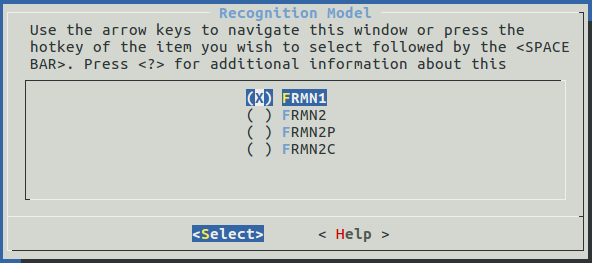
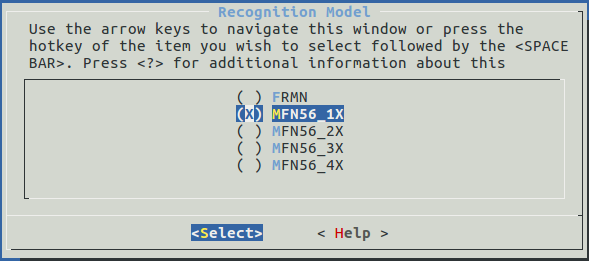
update face_recognition README

Changed region(s): [[0.0, 0.0, 1.0, 1.0], [0.5195, 0.8582, 0.6723, 0.9195]]

diff --git a/face_recognition/README.md b/face_recognition/README.md
@@ -4,9 +4,7 @@ FRMN is a lightweight **Human Face Recognition Model**, which is built around [a
 
 ## Overview
 
-Model FRMN1 is built on MobileNetV2.
-
-Model FRMN2/2C/2P is built on ShuffleNetV2.
+FRMN Models are built on MobileNetV2.
 
 In our training, we use the ArcFace Algorithm, instead of the traditional Softmax Function, and the Cross-Entropy Loss function.
 
@@ -48,20 +46,22 @@ Please see the flowchart of face recognition below:
 
 ## Recognition Model Selection
 
-4 versions of FRMN models are available by now:
-- FRMN1
-- FRMN2C
-- FRMN2
-- FRMN2P
+5 versions of FRMN models are available by now:
+- FRMN
+- MFN56_1X
+- MFN56_2X
+- MFN56_3X
+- MFN56_4X
 
-Accuracy: FRMN2P > FRMN2 > FRMN2C > FRMN1
+Accuracy: MFN56_4X > MFN56_3X > MFN56_2X > MFN56_1X > FRMN
 
 ### Details
-|Model|FRMN1|FRMN2C|FRMN2|FRMN2P|
-| ----- |:-----:|:-----:|:-----:|:-----:|
-|Function|frmn_q|frmn2c_q|frmn2_q|frmn2p_q|
-|Size| 1.2M |1.3M|1.6M|2.6M|
-|Time| 335ms|347ms|506ms|620ms|
+
+|Model|FRMN|MFN56_1X|MFN56_2X|MFN56_3X|MFN56_4X|
+| ----- |:-----:|:-----:|:-----:|:-----:|:-----:|
+|Function|frmn_q|mfn56_42m|mfn56_72m|mfn56_112m|mfn56_156m|
+|Size| 1.2MB | 1.6MB | 2.0MB | 2.4MB | 3.7MB |
+|Time| 363ms | 455ms | 738ms | 1150ms | 1540ms |
 
 
 ### Selection
@@ -70,6 +70,7 @@ Models can be selected through `idf.py menuconfig` or `make menuconfig`. Select 
 
 ![Recognition model selection](../img/recognition_model_selection.png)
 
+Note: The MFN56_4X model can only be run on the development board with 8MB FLASH
 
 ## Precautions
 
